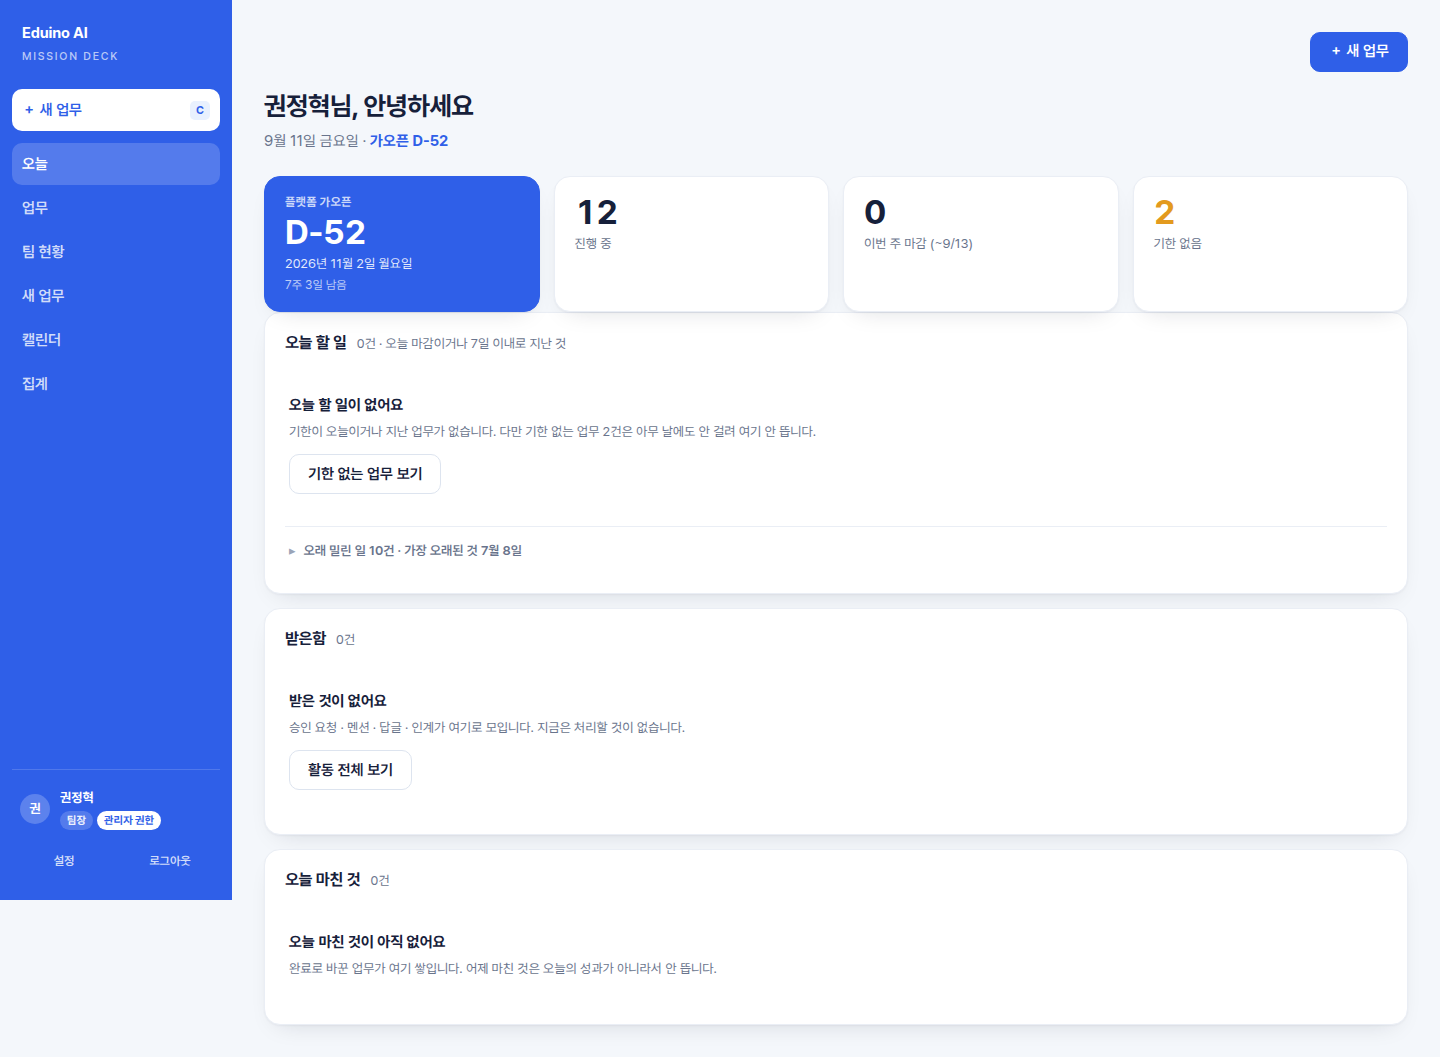
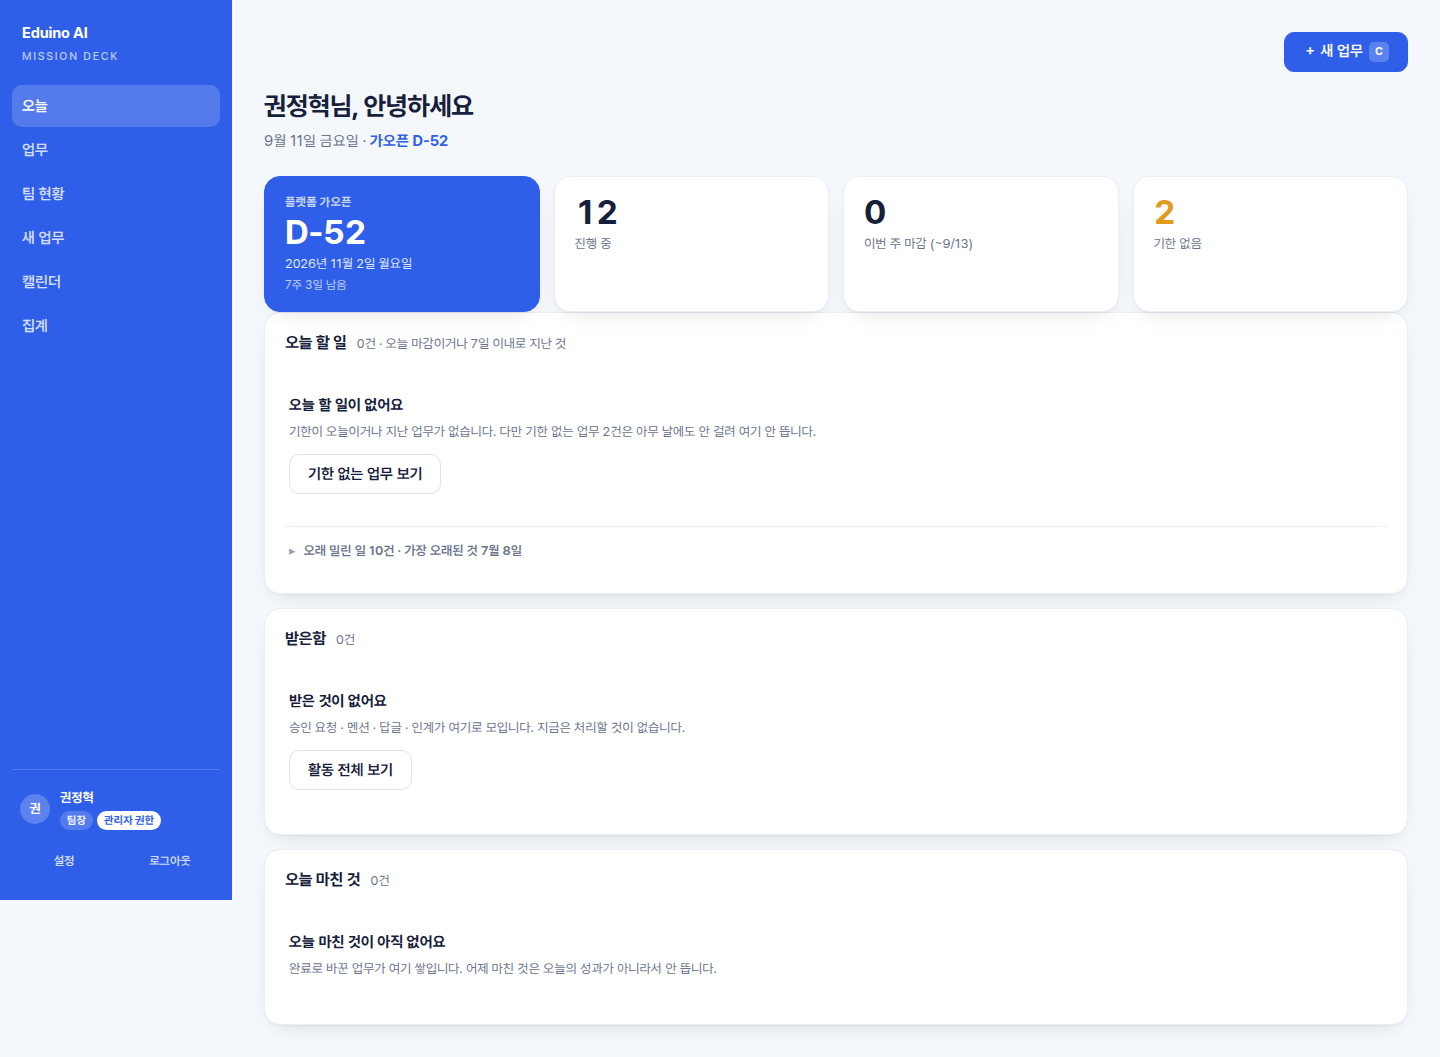
MD-P-2026-056 §A — 「＋ 새 업무」를 하나로 (12/12)
지시자 정정: 051 §A-1 의 「두 자리 모두」가 틀렸다. 헤더도 껍데기에서 그리므로
이미 모든 화면에 있었고, 같은 곳으로 가는 버튼이 한 화면에 둘이었다 —
그러면 「둘이 다른가」를 한 번 묻게 된다.

· 레일의 흰 버튼(`.v3-railnew`)을 거뒀다. **뺀 자리는 그냥 비운다.**
· 헤더 오른쪽 파란 버튼만 남긴다. 단축키 `C` 는 그대로고, 레일에 있던 `C` 표시가
  갈 곳이 없어져 버튼 안에 적었다.

검사기 ①② 를 고쳤다. 묻는 것이 바뀐다 — 「둘 다 있는가」가 아니라 **「하나인가」**.
클래스로 안 세고 **화면에 보이는 것**(「새 업무」라고 적힌 링크·버튼)으로 센다:
클래스로 세면 레일 것을 다른 이름으로 되살려도 통과한다. 레일 메뉴 항목
「새 업무」는 버튼이 아니라 메뉴라 세는 데서 뺀다. ②짝이 `.v3-railnew` 가
0개인 것을 따로 확인한다 — 없어진 것을 세는 자리다.

Claude-Session: https://claude.ai/code/session_01Xpp231V8pSM3sVcBoRknqv

Changed region(s): [[0.0, 0.0624, 0.1562, 0.3746], [0.875, 0.0312, 0.9688, 0.0624]]

diff --git a/components/v3/Shell.tsx b/components/v3/Shell.tsx
@@ -10,11 +10,14 @@
 // 「집계」는 **팀장부터** 보인다 — 그 화면과 같은 함수(`hasLead`)로 가린다.
 // (상세는 업무에서 들어가는 자리라 레일에 없다.)
 //
-// ── 「＋ 새 업무」가 여기 있는 이유 (051 §A-1) ────────────────────
+// ── 「＋ 새 업무」는 **하나다** (056 §A) ─────────────────────────
 //
-// 두 자리 모두 **껍데기에서 한 번** 그린다. 화면마다 붙이면 하나 빠뜨렸을 때
-// 그 화면에서만 없는데 **눌러 보기 전엔 모른다** — 「막는 것은 뿌리에서 한 번
-// 한다」(§G 043)와 같은 이유다.
+// 051 §A-1 은 「레일 맨 위 + 헤더 오른쪽, 두 자리 모두」였다. 지시자 정정:
+// **헤더도 껍데기에서 그리므로 이미 모든 화면에 있었다.** 두 자리는 같은 곳으로
+// 가는 버튼이 한 화면에 둘이라는 뜻이었고, 그러면 「둘이 다른가」를 한 번 묻게 된다.
+//
+// 그래서 레일의 흰 버튼을 뺐다. **뺀 자리는 그냥 비운다** — 다른 것으로 채우면
+// 줄인 의미가 없다. 단축키 `C` 는 그대로다.
 import Link from "next/link";
 import { useCallback, useEffect, Suspense } from "react";
 import { usePathname, useRouter } from "next/navigation";
@@ -93,12 +96,6 @@ export default function V3Shell({ user, children }: { user: SessionUser; childre
             <small>MISSION DECK</small>
           </span>
 
-          {/* 「＋ 새 업무」 — **메뉴보다 위**. 흰 바탕에 파란 글씨라 메뉴와 안 섞인다. */}
-          <Link className="v3-railnew" href={newHref}>
-            ＋ 새 업무
-            <kbd>C</kbd>
-          </Link>
-
           {/* 메뉴 항목에는 제 이름표가 있다. 레일에 「＋ 새 업무」와 계정 링크가
               함께 서면서 「레일의 모든 `a`」가 더는 메뉴를 뜻하지 않게 됐다 —
               세는 쪽이 무엇을 세는지 이름으로 말하게 한다. */}
@@ -146,12 +143,16 @@ export default function V3Shell({ user, children }: { user: SessionUser; childre
         </nav>
 
         <main className="v3-main">
-          {/* 헤더 오른쪽의 「＋ 새 업무」 — 파란 채움. 레일의 것과 **같은 곳**으로 간다. */}
           {/* 밀려난 이유 — 옛 셸과 **같은 표**에서 나온다 (053 §B-31).
               스위치가 켜져 있으면 옛 홈이 여기로 다시 보내므로 이 자리도 필요하다. */}
           <Suspense fallback={null}><DeniedNote /></Suspense>
+          {/* 「＋ 새 업무」 — **이 화면의 유일한 자리**다 (056 §A).
+              단축키 `C` 도 같은 곳으로 가므로 버튼에 적어 둔다. */}
           <div className="v3-top">
-            <Link className="v3-btn primary v3-topnew" href={newHref}>＋ 새 업무</Link>
+            <Link className="v3-btn primary v3-topnew" href={newHref}>
+              ＋ 새 업무
+              <kbd className="v3-topkbd">C</kbd>
+            </Link>
           </div>
           {children}
         </main>

diff --git a/app/v3.css b/app/v3.css
@@ -93,20 +93,15 @@
 /* `.v3-rail-foot`(이름·역할 한 줄)은 051 §A-2 에서 `.v3-acct` 로 바뀌었다 —
    프로필·설정·로그아웃이 v3 에는 아예 없었다(조사 결과). */
 
-/* ── 051 §A-1 「＋ 새 업무」 두 자리 ──────────────────────────────
-   레일 것은 **흰 바탕에 파란 글씨** — 메뉴와 안 섞이라고 색을 뒤집는다. */
-.v3-railnew { display: flex; align-items: center; gap: 8px; margin: 4px 0 10px;
-  min-height: 42px; padding: 0 12px; border-radius: var(--v3-radius-s);
-  background: #fff; color: var(--v3-rail) !important; font-weight: 700;
-  text-decoration: none; }
-.v3-railnew:hover { background: #fff; filter: brightness(.96); }
-.v3-railnew kbd { margin-left: auto; padding: 1px 6px; border-radius: 5px;
-  background: var(--v3-cat-platform-bg); color: var(--v3-rail); font: inherit;
-  font-size: 11px; font-weight: 700; }
-
-/* 헤더 오른쪽 것은 **파란 채움**. 자리를 늘 차지해서 화면마다 제목 높이가 안 흔들린다. */
+/* ── 056 §A 「＋ 새 업무」는 **하나다** ────────────────────────────
+   051 은 레일과 헤더 두 자리였다. 헤더도 껍데기에서 그리므로 이미 모든 화면에
+   있었고, 같은 곳으로 가는 버튼이 한 화면에 둘이면 「둘이 다른가」를 묻게 된다.
+   레일의 `.v3-railnew` 는 거뒀다. **뺀 자리는 그냥 비운다.** */
 .v3-top { display: flex; justify-content: flex-end; margin: 0 0 14px; }
 .v3-topnew { text-decoration: none; }
+/* 단축키를 버튼에 적는다 — 레일에 있던 표시가 갈 곳이 없어졌다. */
+.v3-topkbd { padding: 1px 6px; border-radius: 5px; background: rgba(255, 255, 255, .22);
+  color: #fff; font: inherit; font-size: 11px; font-weight: 700; }
 
 /* ── 051 §A-2 계정 · 설정 붙박이 ─────────────────────────────────
    두 줄 — ① 이름 + 역할 배지 ② 설정 · 로그아웃.
